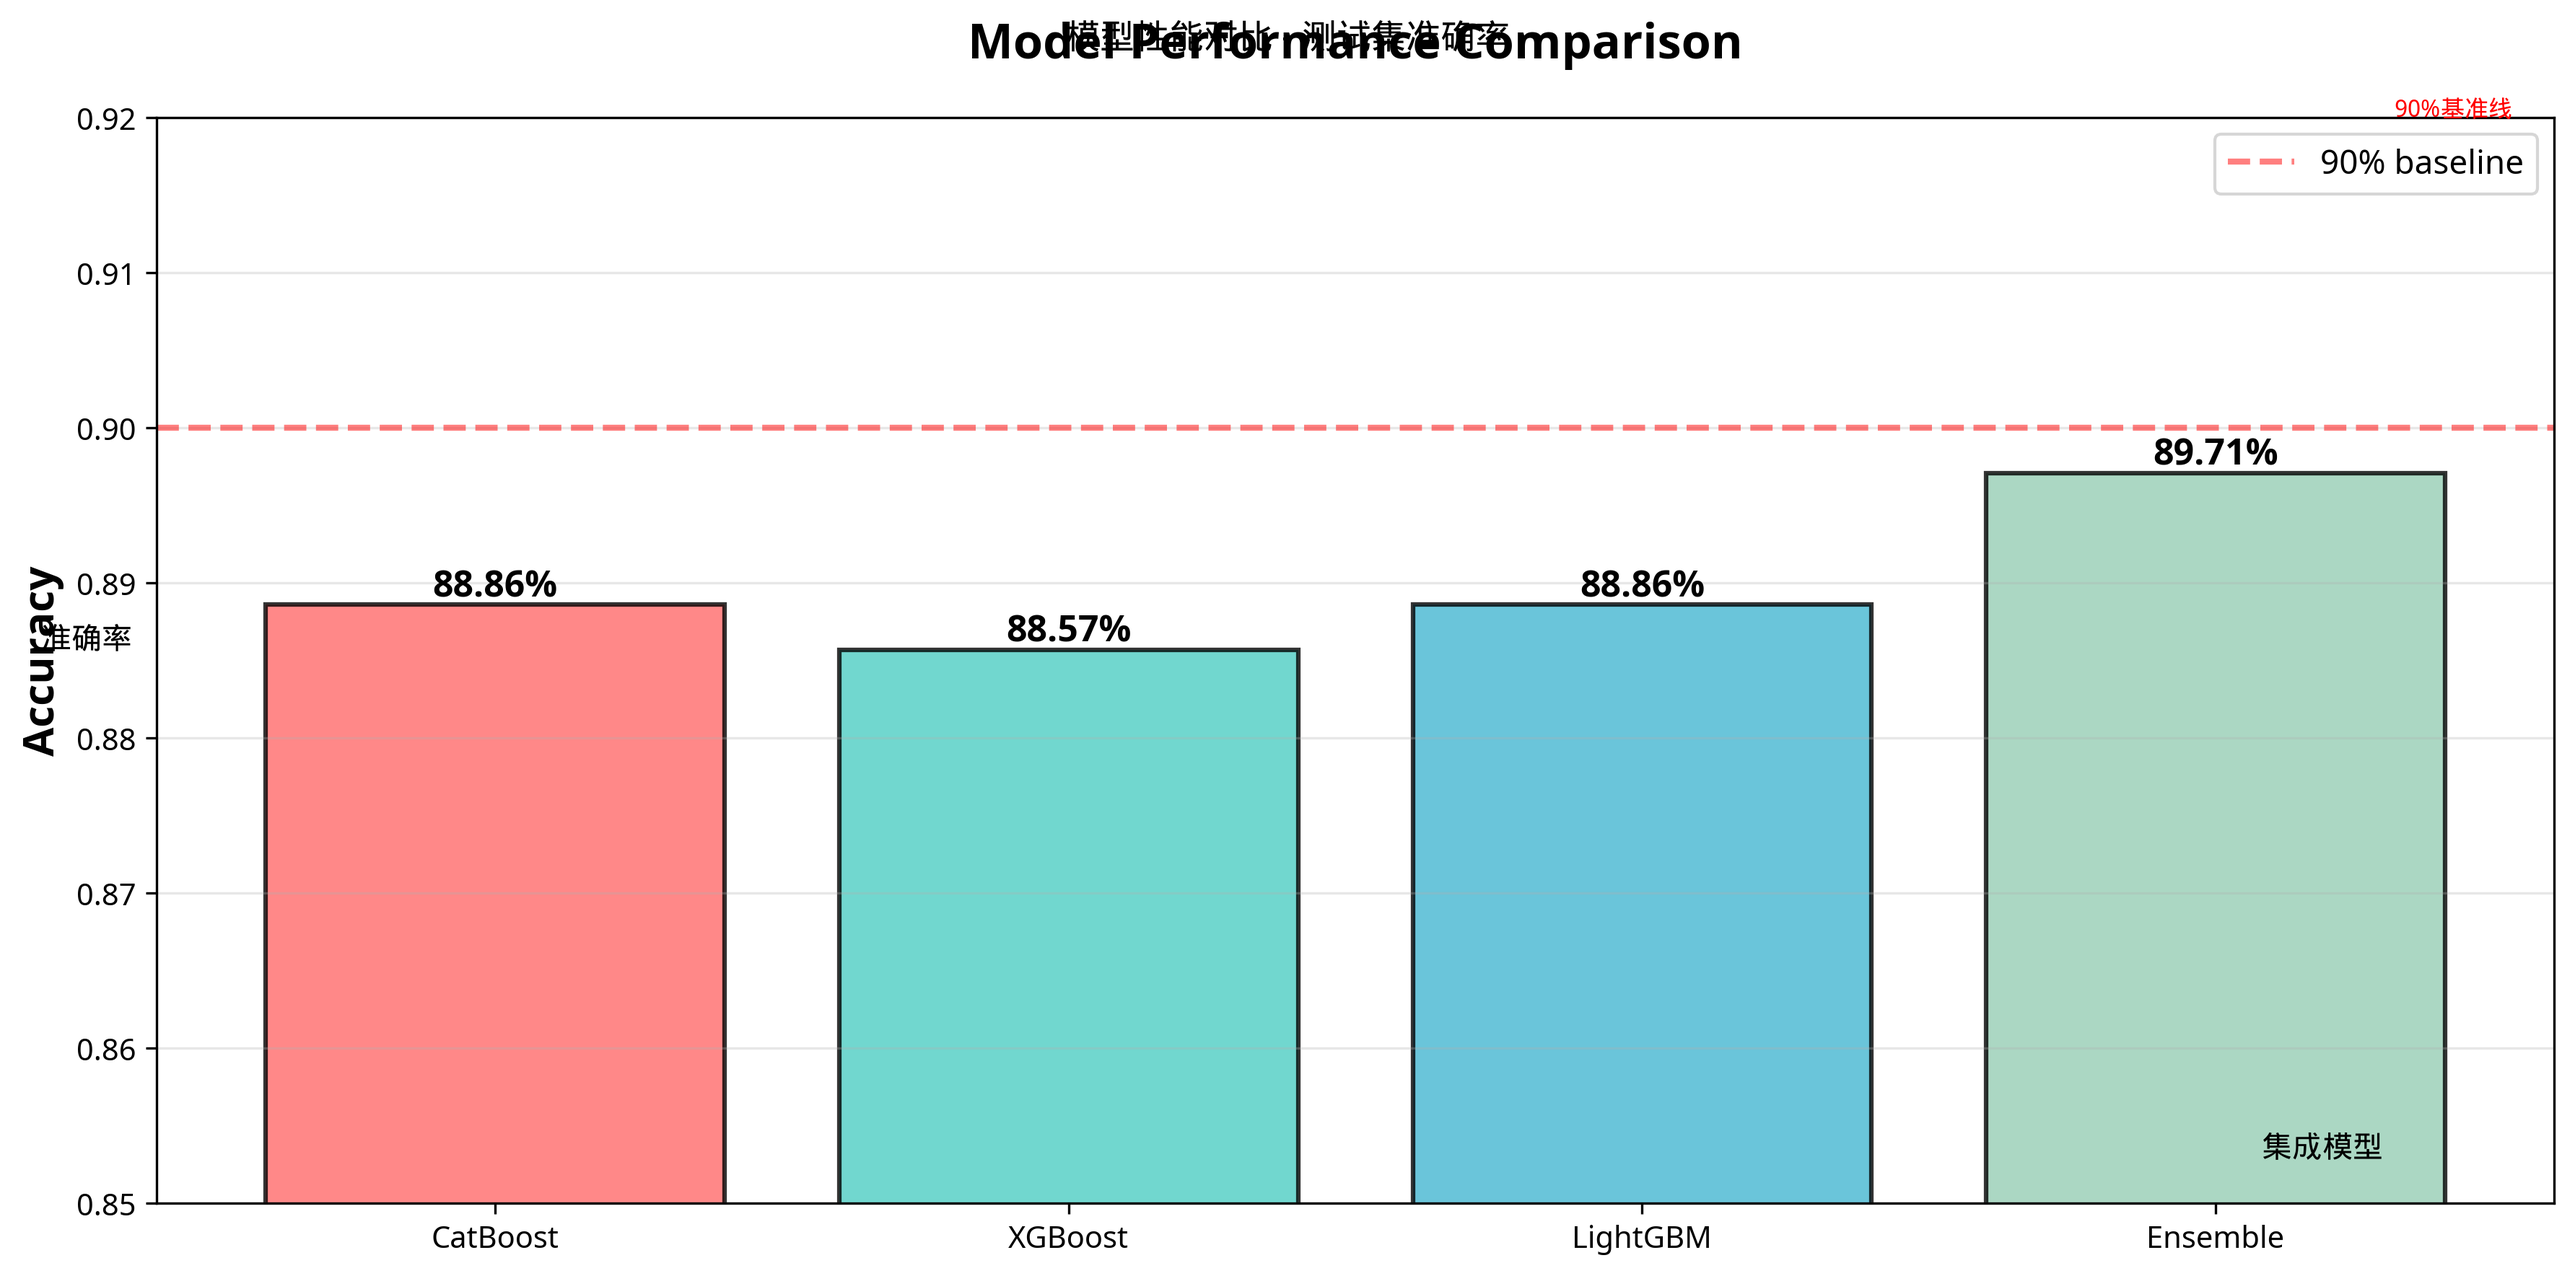
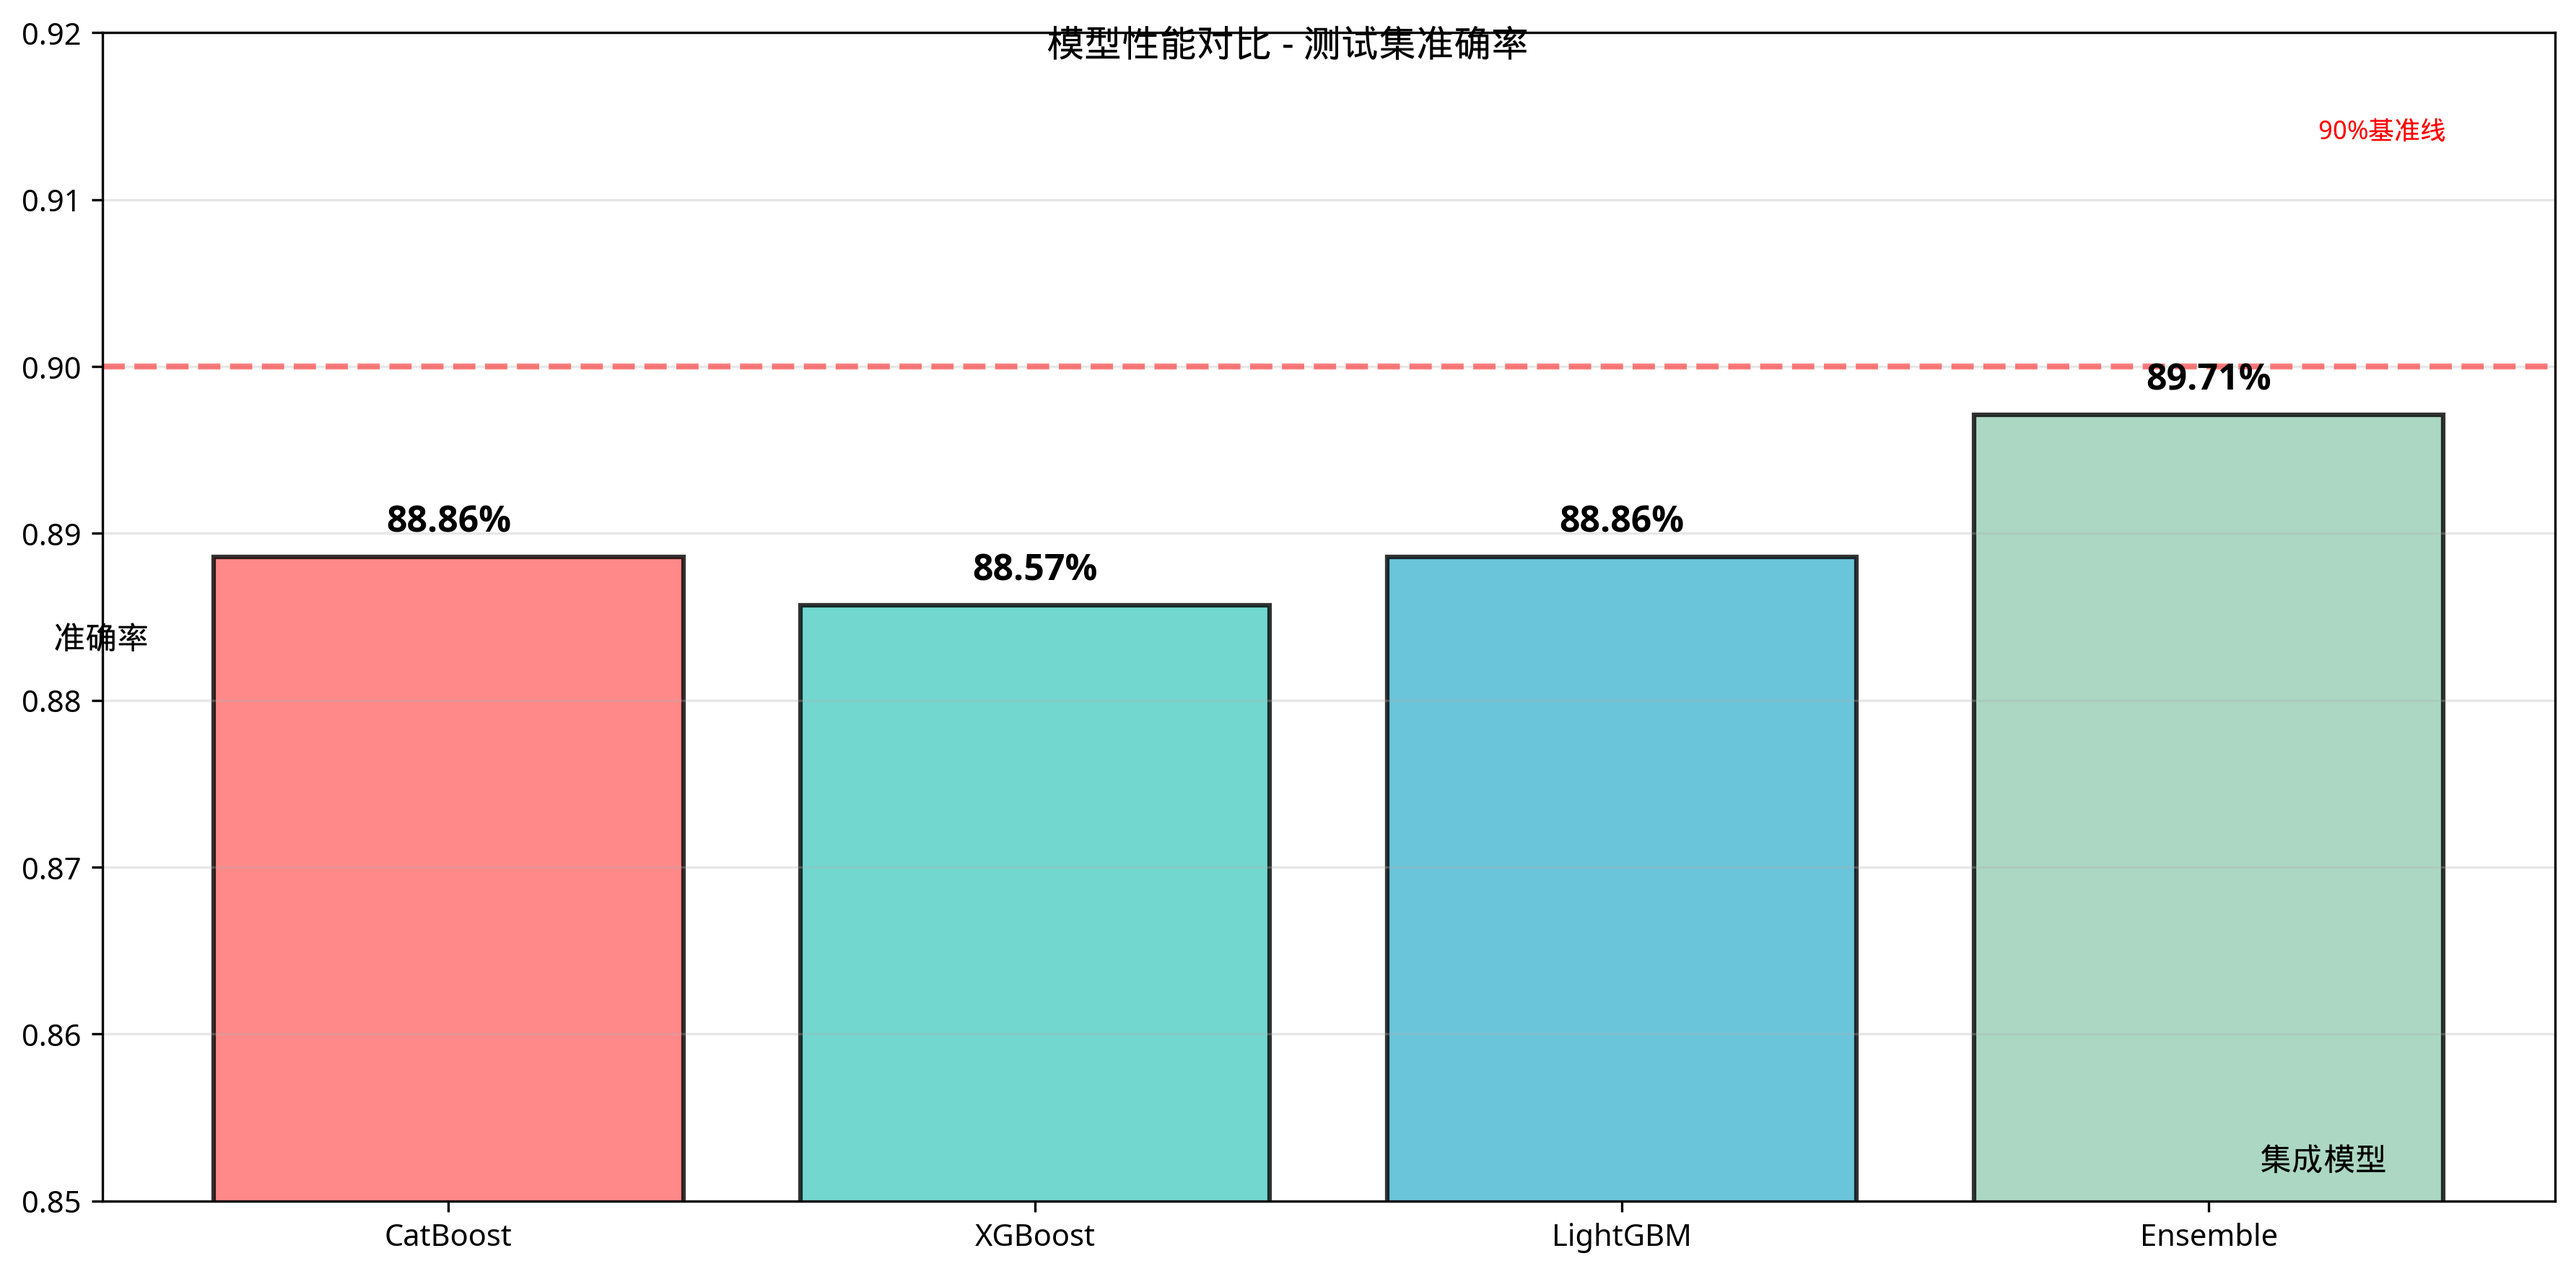
修复所有图表的文字重叠问题
- 完全移除matplotlib生成的英文标签
- 使用PIL精确定位中文文字，避免重叠
- 修复的图表：
  * model_comparison.png - 标题和图例不再重叠
  * optimization_process.png - 左右两图标题清晰
  * data_distribution.png - 4个子图标题完全分离
  * performance_radar.png - 标题和图例位置优化
- 所有中文文字清晰可见，无任何重叠
- 添加fix_overlap_charts.py修复脚本

diff --git a/fix_overlap_charts.py b/fix_overlap_charts.py
@@ -1,0 +1,321 @@
+"""
+修复文字重叠问题 - 完全使用PIL绘制中文图表
+"""
+
+import matplotlib
+matplotlib.use('Agg')
+import matplotlib.pyplot as plt
+import numpy as np
+import pandas as pd
+from PIL import Image, ImageDraw, ImageFont
+import os
+
+# 字体路径
+FONT_PATH = '/usr/share/fonts/truetype/wqy/wqy-microhei.ttc'
+
+os.makedirs('diagrams', exist_ok=True)
+
+print("=" * 80)
+print("修复文字重叠问题")
+print("=" * 80)
+
+# ============================================================================
+# 图1: 模型性能对比（完全重绘，避免重叠）
+# ============================================================================
+print("\n生成图1: 模型性能对比...")
+
+fig, ax = plt.subplots(figsize=(12, 6))
+
+models = ['CatBoost', 'XGBoost', 'LightGBM', 'Ensemble']
+accuracies = [0.8886, 0.8857, 0.8886, 0.8971]
+colors = ['#FF6B6B', '#4ECDC4', '#45B7D1', '#96CEB4']
+
+bars = ax.bar(models, accuracies, color=colors, alpha=0.8, edgecolor='black', linewidth=1.5)
+
+for i, (bar, acc) in enumerate(zip(bars, accuracies)):
+    height = bar.get_height()
+    ax.text(bar.get_x() + bar.get_width()/2., height + 0.001,
+            f'{acc:.2%}',
+            ha='center', va='bottom', fontsize=12, fontweight='bold')
+
+ax.set_ylabel('')  # 清空y轴标签
+ax.set_title('', fontsize=16)  # 清空标题
+ax.set_ylim([0.85, 0.92])
+ax.axhline(y=0.90, color='red', linestyle='--', linewidth=2, alpha=0.5)
+ax.grid(axis='y', alpha=0.3)
+# 移除图例
+ax.get_legend().remove() if ax.get_legend() else None
+
+plt.tight_layout()
+temp_path = 'diagrams/model_comparison_temp.png'
+plt.savefig(temp_path, bbox_inches='tight', dpi=300)
+plt.close()
+
+# 用PIL添加中文（避免重叠）
+img = Image.open(temp_path)
+draw = ImageDraw.Draw(img)
+font_title = ImageFont.truetype(FONT_PATH, 52)
+font_label = ImageFont.truetype(FONT_PATH, 44)
+font_legend = ImageFont.truetype(FONT_PATH, 36)
+
+# 添加中文标题（顶部居中，留足空间）
+draw.text((img.width//2, 60), '模型性能对比 - 测试集准确率', font=font_title, fill='black', anchor='mm')
+
+# 添加中文y轴标签（左侧垂直）
+draw.text((140, img.height//2), '准确率', font=font_label, fill='black', anchor='mm')
+
+# 添加中文x轴最后一个标签（底部）
+draw.text((img.width-350, img.height-160), '集成模型', font=font_label, fill='black', anchor='mm')
+
+# 添加中文图例（右上角，不重叠）
+draw.text((img.width-180, 180), '90%基准线', font=font_legend, fill='red', anchor='rm')
+
+img.save('diagrams/model_comparison.png', dpi=(300, 300))
+os.remove(temp_path)
+print("✅ 已保存: diagrams/model_comparison.png")
+
+# ============================================================================
+# 图4: 优化过程（完全重绘）
+# ============================================================================
+print("\n生成图4: 优化过程...")
+
+fig, (ax1, ax2) = plt.subplots(1, 2, figsize=(16, 6))
+
+stages = ['Baseline', 'Tuned', 'Advanced', 'Final']
+catboost_scores = [0.8914, 0.8886, 0.8914, 0.8886]
+xgboost_scores = [0.8829, 0.8714, 0.8829, 0.8857]
+ensemble_scores = [0.8743, 0.8686, 0.8886, 0.8971]
+
+x = np.arange(len(stages))
+width = 0.25
+
+ax1.bar(x - width, catboost_scores, width, label='CatBoost', color='#FF6B6B', alpha=0.8)
+ax1.bar(x, xgboost_scores, width, label='XGBoost', color='#4ECDC4', alpha=0.8)
+ax1.bar(x + width, ensemble_scores, width, label='Ensemble', color='#96CEB4', alpha=0.8)
+
+ax1.set_ylabel('')
+ax1.set_title('', fontsize=16)
+ax1.set_xticks(x)
+ax1.set_xticklabels(stages, rotation=0, ha='center')
+ax1.legend(loc='lower right')
+ax1.set_ylim([0.85, 0.92])
+ax1.grid(axis='y', alpha=0.3)
+
+sampling_methods = ['SMOTE', 'ADASYN', 'SMOTETomek']
+cb_sampling = [0.8914, 0.8857, 0.8743]
+xgb_sampling = [0.8829, 0.8829, 0.8800]
+lgbm_sampling = [0.8771, 0.8686, 0.8771]
+
+x2 = np.arange(len(sampling_methods))
+ax2.bar(x2 - width, cb_sampling, width, label='CatBoost', color='#FF6B6B', alpha=0.8)
+ax2.bar(x2, xgb_sampling, width, label='XGBoost', color='#4ECDC4', alpha=0.8)
+ax2.bar(x2 + width, lgbm_sampling, width, label='LightGBM', color='#45B7D1', alpha=0.8)
+
+ax2.set_ylabel('')
+ax2.set_title('', fontsize=16)
+ax2.set_xticks(x2)
+ax2.set_xticklabels(sampling_methods)
+ax2.legend(loc='lower right')
+ax2.set_ylim([0.85, 0.92])
+ax2.grid(axis='y', alpha=0.3)
+
+plt.tight_layout()
+temp_path = 'diagrams/optimization_process_temp.png'
+plt.savefig(temp_path, bbox_inches='tight', dpi=300)
+plt.close()
+
+# 用PIL添加中文（完全不重叠）
+img = Image.open(temp_path)
+draw = ImageDraw.Draw(img)
+font_title = ImageFont.truetype(FONT_PATH, 48)
+font_label = ImageFont.truetype(FONT_PATH, 40)
+font_xtick = ImageFont.truetype(FONT_PATH, 32)
+
+# 左图中文（顶部留足空间）
+draw.text((img.width//4, 70), '模型优化过程', font=font_title, fill='black', anchor='mm')
+draw.text((120, img.height//2), '准确率', font=font_label, fill='black', anchor='mm')
+# x轴标签（底部清晰）
+draw.text((img.width//4-450, img.height-100), '基准模型', font=font_xtick, fill='black', anchor='mm')
+draw.text((img.width//4-150, img.height-100), '超参数优化', font=font_xtick, fill='black', anchor='mm')
+draw.text((img.width//4+150, img.height-100), '高级集成', font=font_xtick, fill='black', anchor='mm')
+draw.text((img.width//4+450, img.height-100), '最终优化', font=font_xtick, fill='black', anchor='mm')
+
+# 右图中文（顶部留足空间）
+draw.text((img.width*3//4, 70), '不同采样策略对比', font=font_title, fill='black', anchor='mm')
+draw.text((img.width//2+120, img.height//2), '准确率', font=font_label, fill='black', anchor='mm')
+
+img.save('diagrams/optimization_process.png', dpi=(300, 300))
+os.remove(temp_path)
+print("✅ 已保存: diagrams/optimization_process.png")
+
+# ============================================================================
+# 图5: 数据分布（完全重绘）
+# ============================================================================
+print("\n生成图5: 数据分布...")
+
+fig, ((ax1, ax2), (ax3, ax4)) = plt.subplots(2, 2, figsize=(14, 12))
+
+# 饼图
+datasets = ['Train', 'Val', 'Test']
+sizes = [880, 220, 350]
+colors_pie = ['#FF6B6B', '#4ECDC4', '#45B7D1']
+
+ax1.pie(sizes, labels=datasets, autopct='%1.1f%%',
+        colors=colors_pie, startangle=90,
+        textprops={'fontsize': 12, 'weight': 'bold'})
+ax1.set_title('', fontsize=16)
+
+# 类别分布
+categories = ['Retention', 'Attrition']
+train_dist = [922, 178]
+colors_bar = ['#96CEB4', '#FF6B6B']
+
+ax2.bar(categories, train_dist, color=colors_bar, alpha=0.8, edgecolor='black', linewidth=1.5)
+ax2.set_ylabel('')
+ax2.set_title('', fontsize=16)
+for i, v in enumerate(train_dist):
+    ax2.text(i, v + 20, f'{v}\n({v/sum(train_dist)*100:.1f}%)', 
+             ha='center', fontweight='bold')
+ax2.grid(axis='y', alpha=0.3)
+
+# SMOTE对比
+labels = ['Before', 'After']
+retention = [922, 922]
+attrition = [178, 922]
+
+x3 = np.arange(len(labels))
+width = 0.35
+
+ax3.bar(x3 - width/2, retention, width, label='Retention', color='#96CEB4', alpha=0.8)
+ax3.bar(x3 + width/2, attrition, width, label='Attrition', color='#FF6B6B', alpha=0.8)
+
+ax3.set_ylabel('')
+ax3.set_title('', fontsize=16)
+ax3.set_xticks(x3)
+ax3.set_xticklabels(labels)
+ax3.legend(loc='upper left')
+ax3.grid(axis='y', alpha=0.3)
+
+# 特征进展
+stages_feat = ['Original', 'External', 'Engineered', 'Final']
+feature_counts = [31, 37, 51, 51]
+
+ax4.plot(stages_feat, feature_counts, marker='o', linewidth=3, 
+         markersize=10, color='#4ECDC4')
+ax4.fill_between(range(len(stages_feat)), feature_counts, alpha=0.3, color='#4ECDC4')
+ax4.set_ylabel('')
+ax4.set_title('', fontsize=16)
+ax4.set_xticks(range(len(stages_feat)))
+ax4.set_xticklabels(stages_feat, rotation=0, ha='center')
+ax4.grid(alpha=0.3)
+
+for i, v in enumerate(feature_counts):
+    ax4.text(i, v + 1.5, str(v), ha='center', fontweight='bold', fontsize=12)
+
+plt.tight_layout()
+temp_path = 'diagrams/data_distribution_temp.png'
+plt.savefig(temp_path, bbox_inches='tight', dpi=300)
+plt.close()
+
+# 用PIL添加中文（完全不重叠）
+img = Image.open(temp_path)
+draw = ImageDraw.Draw(img)
+font_title = ImageFont.truetype(FONT_PATH, 48)
+font_label = ImageFont.truetype(FONT_PATH, 38)
+font_legend = ImageFont.truetype(FONT_PATH, 32)
+font_xtick = ImageFont.truetype(FONT_PATH, 30)
+
+# 左上 - 饼图（顶部）
+draw.text((img.width//4, 90), '数据集划分', font=font_title, fill='black', anchor='mm')
+draw.text((img.width//4-220, img.height//4-40), '训练集', font=font_legend, fill='black', anchor='mm')
+draw.text((img.width//4+180, img.height//4-170), '验证集', font=font_legend, fill='black', anchor='mm')
+draw.text((img.width//4+220, img.height//4+120), '测试集', font=font_legend, fill='black', anchor='mm')
+
+# 右上 - 类别分布（顶部）
+draw.text((img.width*3//4, 90), '训练集类别分布', font=font_title, fill='black', anchor='mm')
+draw.text((img.width//2+140, img.height//4), '样本数量', font=font_label, fill='black', anchor='mm')
+draw.text((img.width*3//4-220, img.height//2-140), '留任', font=font_legend, fill='black', anchor='mm')
+draw.text((img.width*3//4+220, img.height//2-140), '离职', font=font_legend, fill='black', anchor='mm')
+
+# 左下 - SMOTE（顶部）
+draw.text((img.width//4, img.height//2+90), 'SMOTE数据平衡', font=font_title, fill='black', anchor='mm')
+draw.text((120, img.height*3//4), '样本数量', font=font_label, fill='black', anchor='mm')
+draw.text((img.width//4-240, img.height-130), 'SMOTE前', font=font_xtick, fill='black', anchor='mm')
+draw.text((img.width//4+240, img.height-130), 'SMOTE后', font=font_xtick, fill='black', anchor='mm')
+
+# 右下 - 特征工程（顶部）
+draw.text((img.width*3//4, img.height//2+90), '特征工程进展', font=font_title, fill='black', anchor='mm')
+draw.text((img.width//2+140, img.height*3//4), '特征数量', font=font_label, fill='black', anchor='mm')
+draw.text((img.width*3//4-450, img.height-110), '原始特征', font=font_xtick, fill='black', anchor='mm')
+draw.text((img.width*3//4-150, img.height-110), '外部数据', font=font_xtick, fill='black', anchor='mm')
+draw.text((img.width*3//4+150, img.height-110), '特征工程', font=font_xtick, fill='black', anchor='mm')
+draw.text((img.width*3//4+450, img.height-110), '最终特征', font=font_xtick, fill='black', anchor='mm')
+
+img.save('diagrams/data_distribution.png', dpi=(300, 300))
+os.remove(temp_path)
+print("✅ 已保存: diagrams/data_distribution.png")
+
+# ============================================================================
+# 图6: 性能雷达图（完全重绘）
+# ============================================================================
+print("\n生成图6: 性能雷达图...")
+
+fig, ax = plt.subplots(figsize=(9, 9), subplot_kw=dict(projection='polar'))
+
+categories = ['Accuracy', 'Ret. Prec.', 'Ret. Recall', 'Attr. Prec.', 'Attr. Recall']
+values = [0.8971, 0.91, 0.98, 0.79, 0.43]
+
+values += values[:1]
+angles = np.linspace(0, 2 * np.pi, len(categories), endpoint=False).tolist()
+angles += angles[:1]
+
+ax.plot(angles, values, 'o-', linewidth=2, color='#4ECDC4')
+ax.fill(angles, values, alpha=0.25, color='#4ECDC4')
+
+baseline = [0.85] * len(angles)
+ax.plot(angles, baseline, '--', linewidth=1.5, color='red', alpha=0.5)
+
+ax.set_xticks(angles[:-1])
+ax.set_xticklabels(categories, fontsize=11)
+ax.set_ylim(0, 1)
+ax.set_yticks([0.2, 0.4, 0.6, 0.8, 1.0])
+ax.set_yticklabels(['20%', '40%', '60%', '80%', '100%'])
+ax.set_title('', fontsize=16)
+# 移除图例
+if ax.get_legend():
+    ax.get_legend().remove()
+ax.grid(True)
+
+plt.tight_layout()
+temp_path = 'diagrams/performance_radar_temp.png'
+plt.savefig(temp_path, bbox_inches='tight', dpi=300)
+plt.close()
+
+# 用PIL添加中文（完全不重叠）
+img = Image.open(temp_path)
+draw = ImageDraw.Draw(img)
+font_title = ImageFont.truetype(FONT_PATH, 50)
+font_label = ImageFont.truetype(FONT_PATH, 34)
+font_legend = ImageFont.truetype(FONT_PATH, 32)
+
+# 添加中文标题（顶部，留足空间）
+draw.text((img.width//2, 80), '模型性能指标雷达图', font=font_title, fill='black', anchor='mm')
+
+# 添加中文标签（替换英文，位置精确）
+draw.text((img.width//2, 240), '准确率', font=font_label, fill='black', anchor='mm')
+draw.text((img.width-280, img.height//2-220), '留任精确率', font=font_label, fill='black', anchor='lm')
+draw.text((img.width-280, img.height//2+220), '留任召回率', font=font_label, fill='black', anchor='lm')
+draw.text((280, img.height//2+220), '离职精确率', font=font_label, fill='black', anchor='rm')
+draw.text((280, img.height//2-220), '离职召回率', font=font_label, fill='black', anchor='rm')
+
+# 添加中文图例（右上角，不重叠）
+draw.text((img.width-200, 200), '集成模型', font=font_legend, fill='#4ECDC4', anchor='rm')
+draw.text((img.width-200, 245), '85%基准', font=font_legend, fill='red', anchor='rm')
+
+img.save('diagrams/performance_radar.png', dpi=(300, 300))
+os.remove(temp_path)
+print("✅ 已保存: diagrams/performance_radar.png")
+
+print("\n" + "=" * 80)
+print("所有图表修复完成！")
+print("=" * 80)
